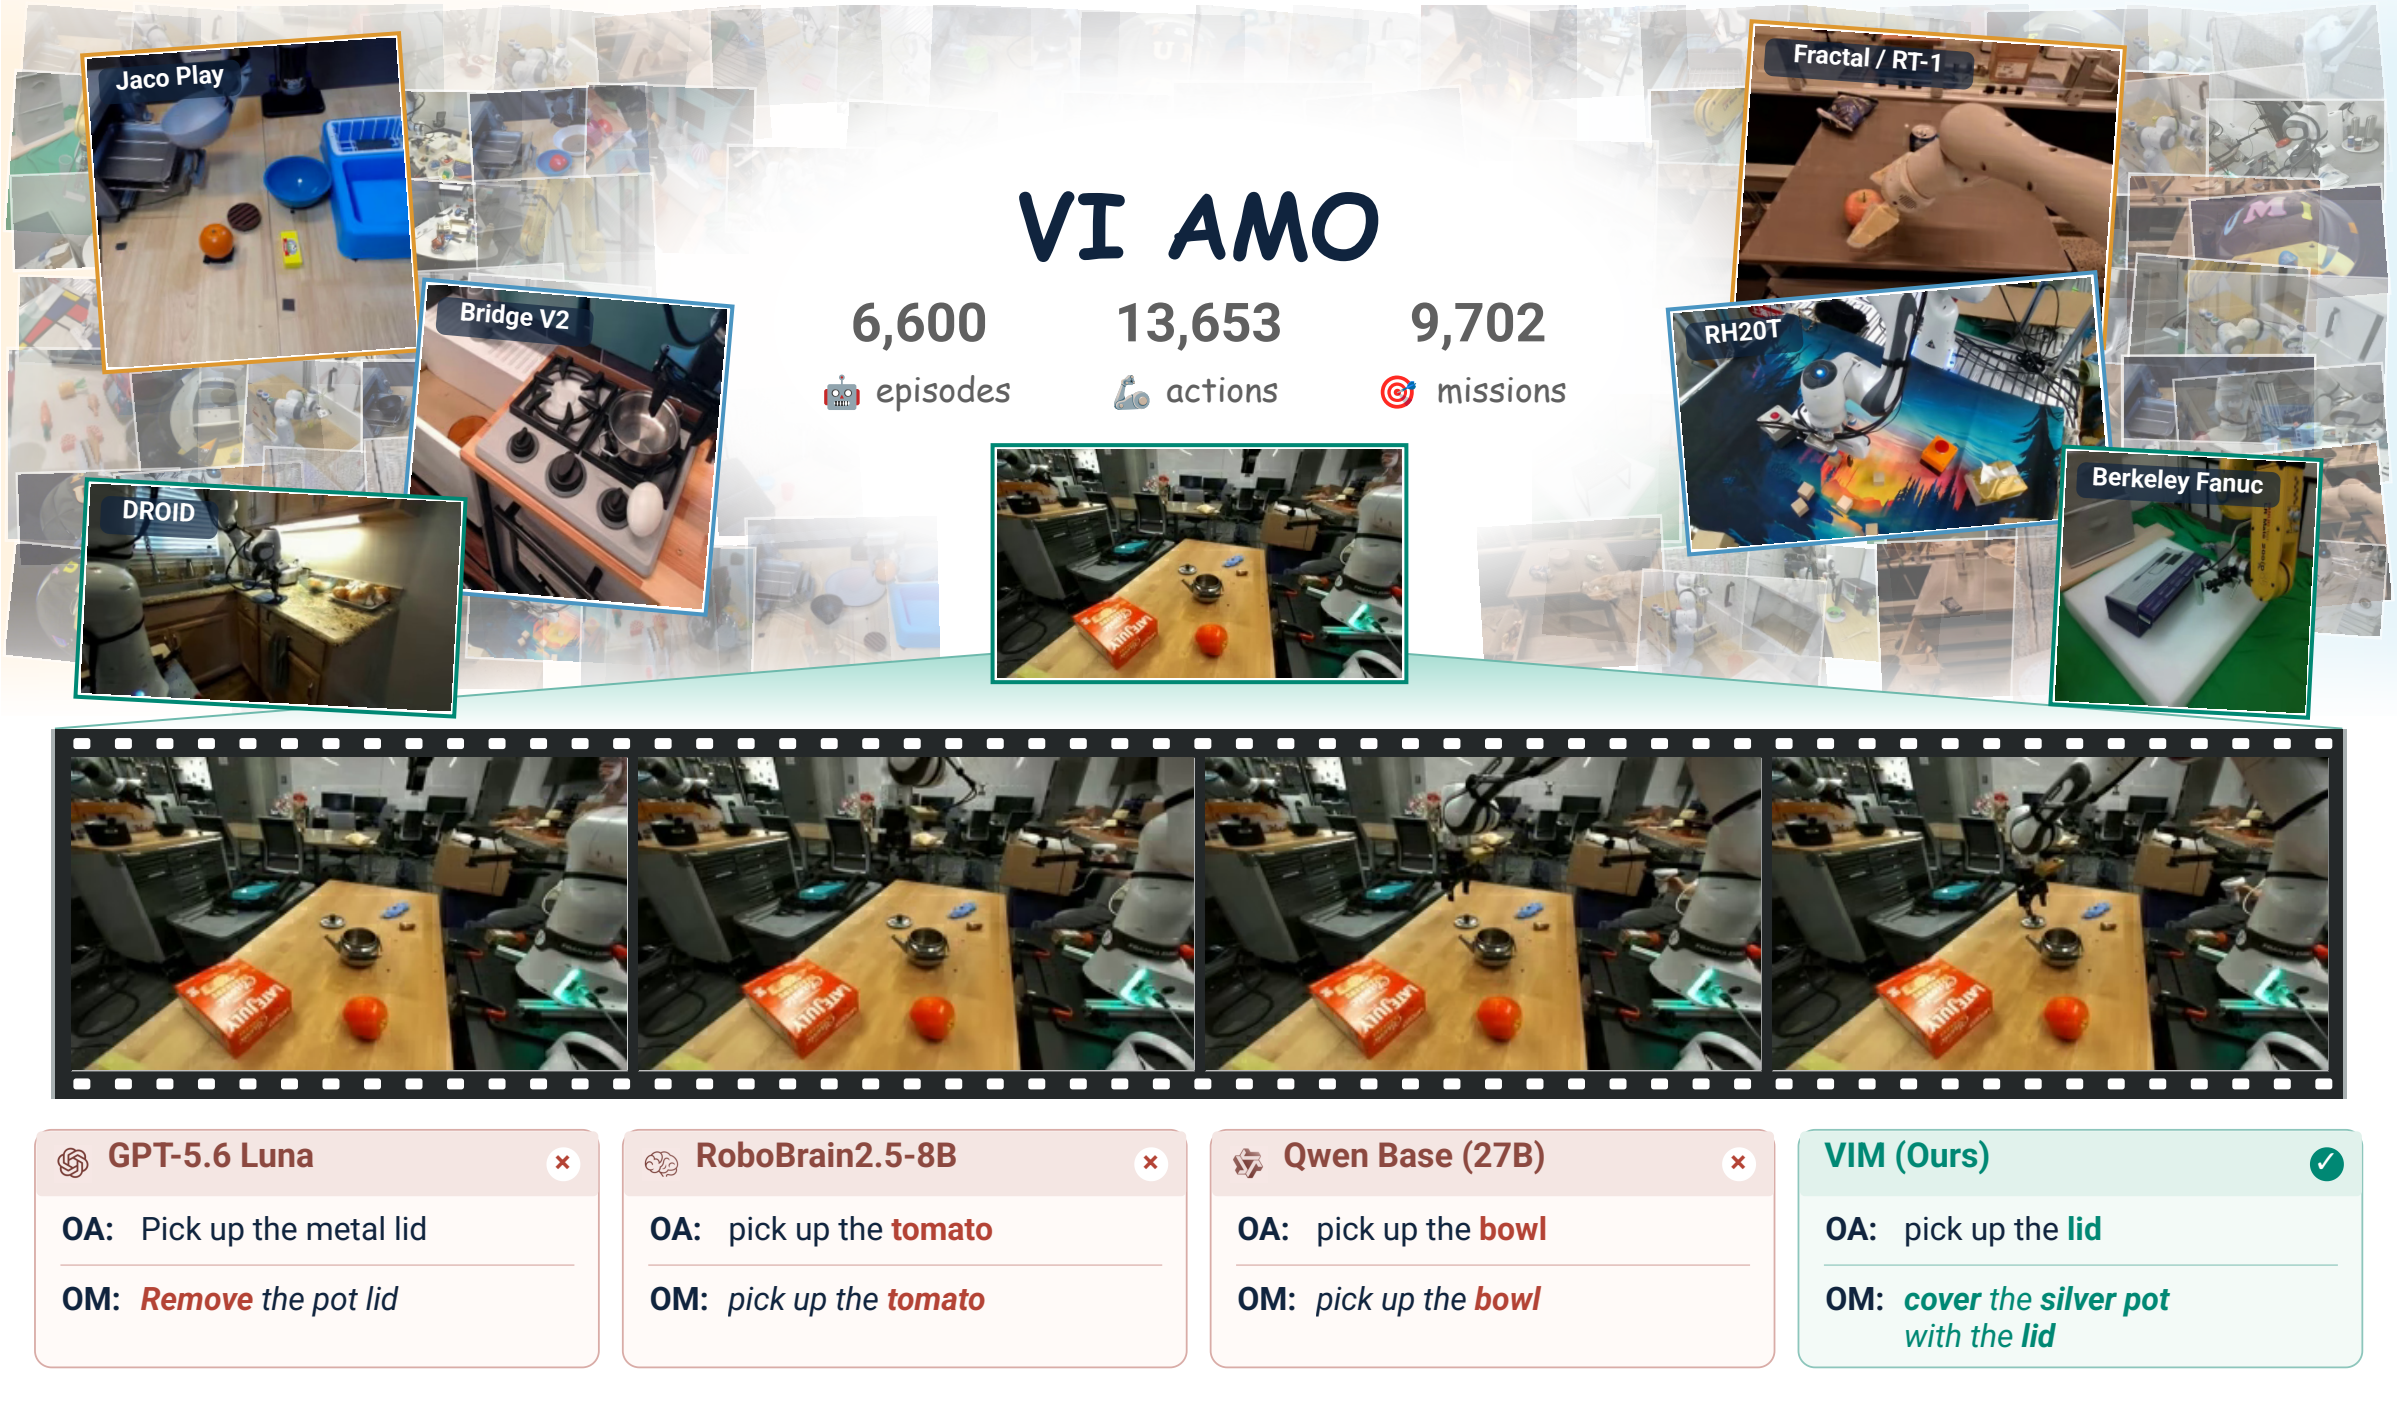
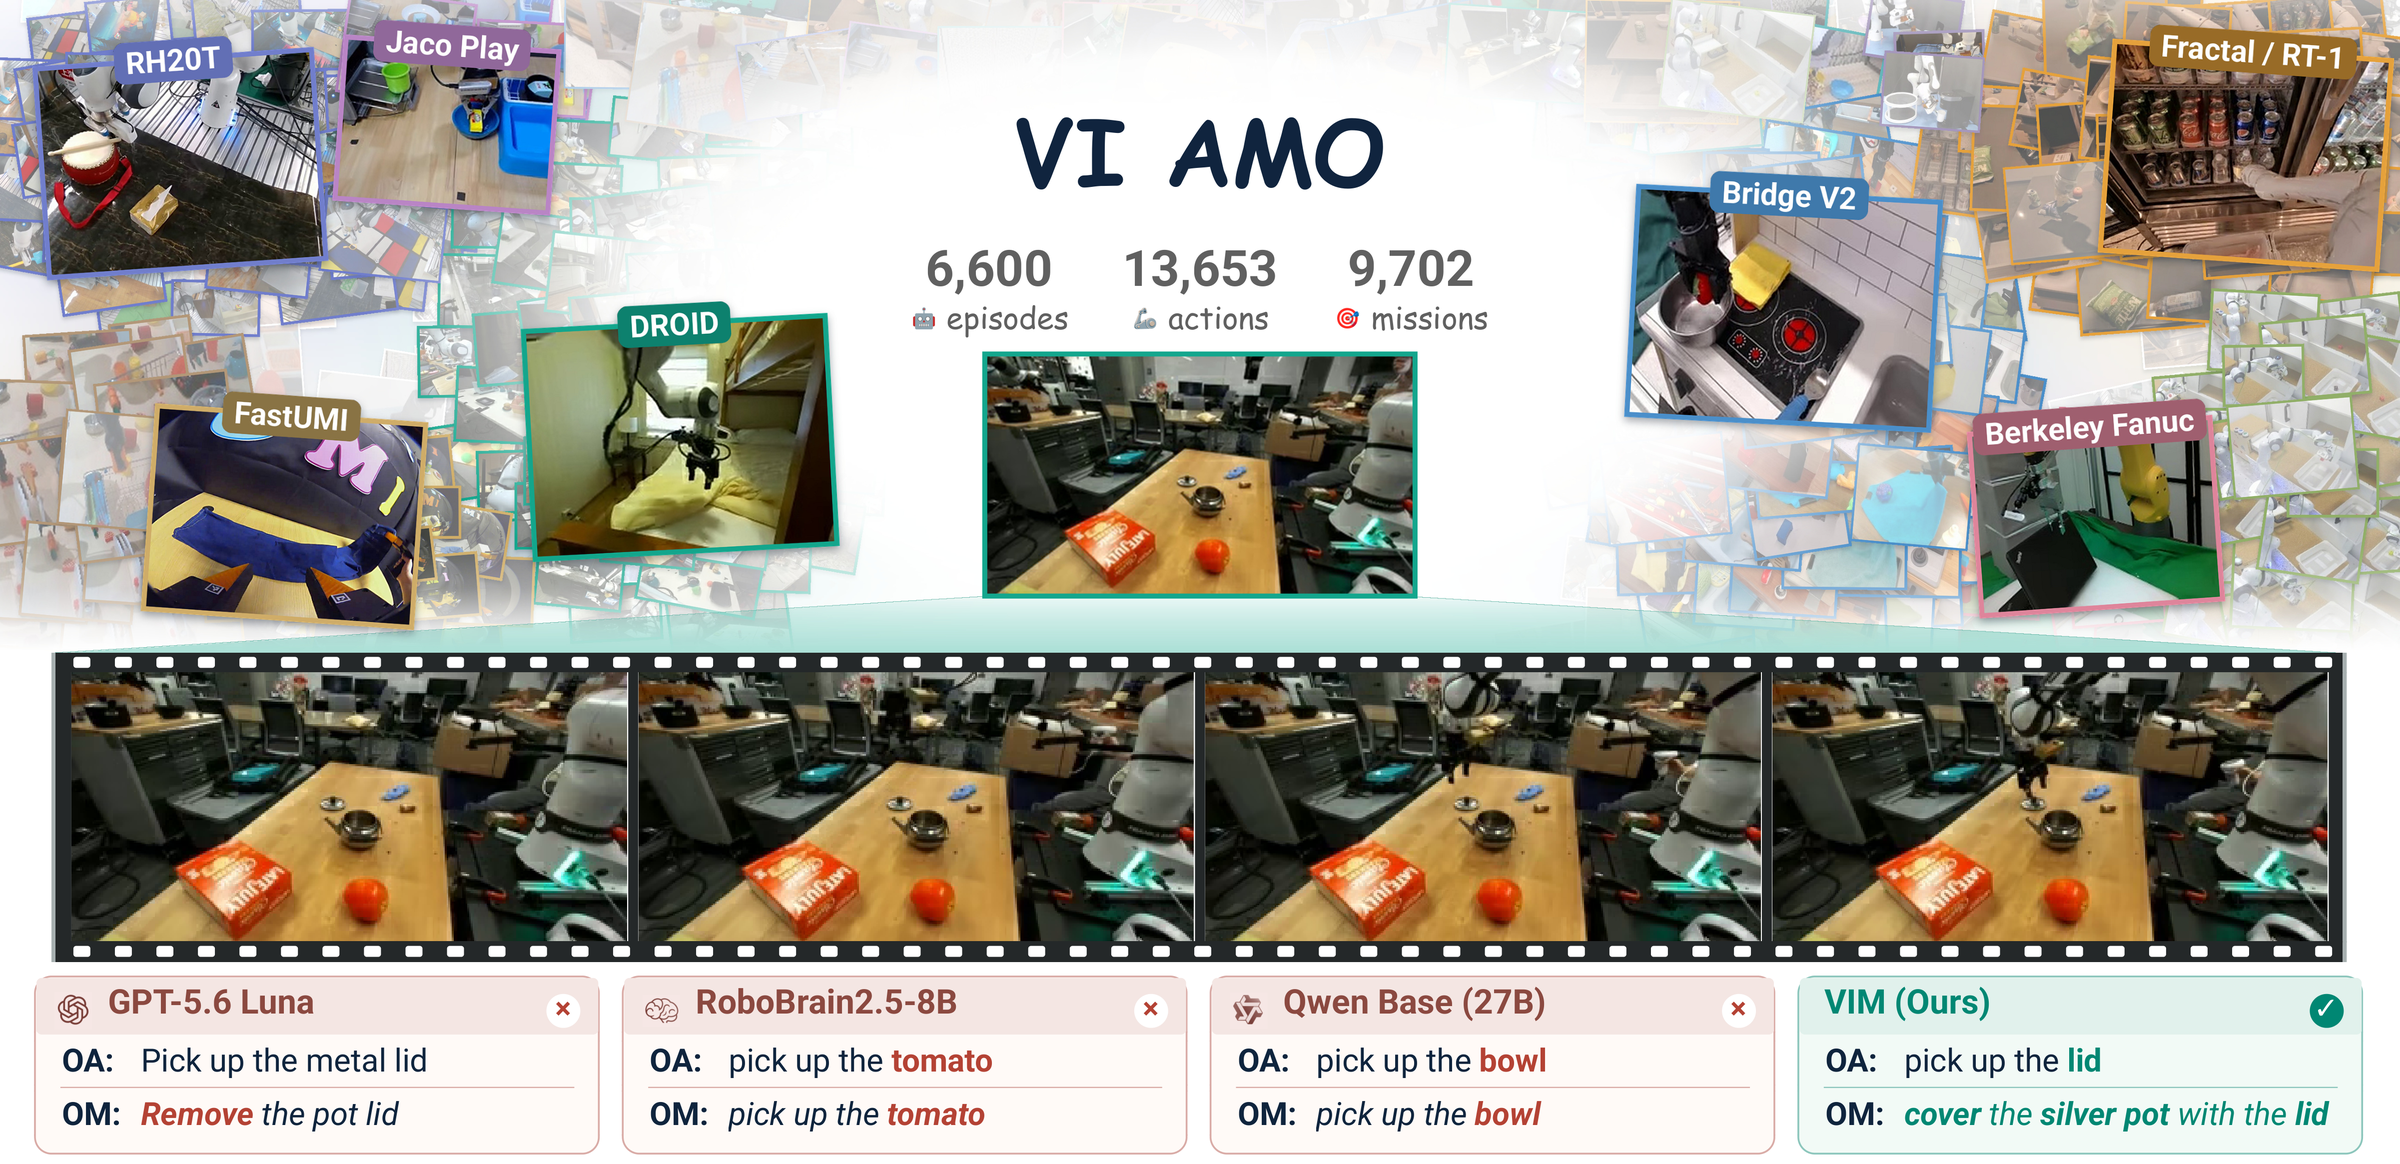
Update testpage overview figure with balanced FastUMI and title spacing

diff --git a/testpage/index.html b/testpage/index.html
@@ -33,7 +33,7 @@
     <section class="teaser-section" aria-label="Project overview">
       <div class="container">
         <p class="project-description">VIM reads a short visual teleoperation history to predict the ongoing action and the mission it serves, enabling a robot to continue after a human handoff.</p>
-        <figure class="research-figure teaser-figure"><a class="figure-link" href="static/images/vi-amo-teaser.png" data-lightbox aria-label="Enlarge figure: VI AMO combines 6,600 episodes, 13,653 actions, and 9,702 missions. A visual teleoperation history shows a robot picking up a lid; VIM predicts the ongoing action and the mission to cover the silver pot with the lid."><img src="static/images/vi-amo-teaser.png" width="2400" height="1412" alt="VI AMO combines 6,600 episodes, 13,653 actions, and 9,702 missions. A visual teleoperation history shows a robot picking up a lid; VIM predicts the ongoing action and the mission to cover the silver pot with the lid." fetchpriority="high"><span class="enlarge-label" aria-hidden="true">↗ Enlarge</span></a><figcaption>VIM jointly predicts the ongoing action (OA) and ongoing mission (OM).</figcaption></figure>
+        <figure class="research-figure teaser-figure"><a class="figure-link" href="static/images/vi-amo-teaser.png?v=20261107-fig1-r18" data-lightbox aria-label="Enlarge figure: VI AMO combines 6,600 episodes, 13,653 actions, and 9,702 missions. A visual teleoperation history shows a robot picking up a lid; VIM predicts the ongoing action and the mission to cover the silver pot with the lid."><img src="static/images/vi-amo-teaser.png?v=20261107-fig1-r18" width="2400" height="1164" alt="VI AMO combines 6,600 episodes, 13,653 actions, and 9,702 missions. A visual teleoperation history shows a robot picking up a lid; VIM predicts the ongoing action and the mission to cover the silver pot with the lid." fetchpriority="high"><span class="enlarge-label" aria-hidden="true">↗ Enlarge</span></a><figcaption>VIM jointly predicts the ongoing action (OA) and ongoing mission (OM).</figcaption></figure>
       </div>
     </section>
     <section class="section section-tinted" id="abstract" aria-labelledby="abstract-title">
